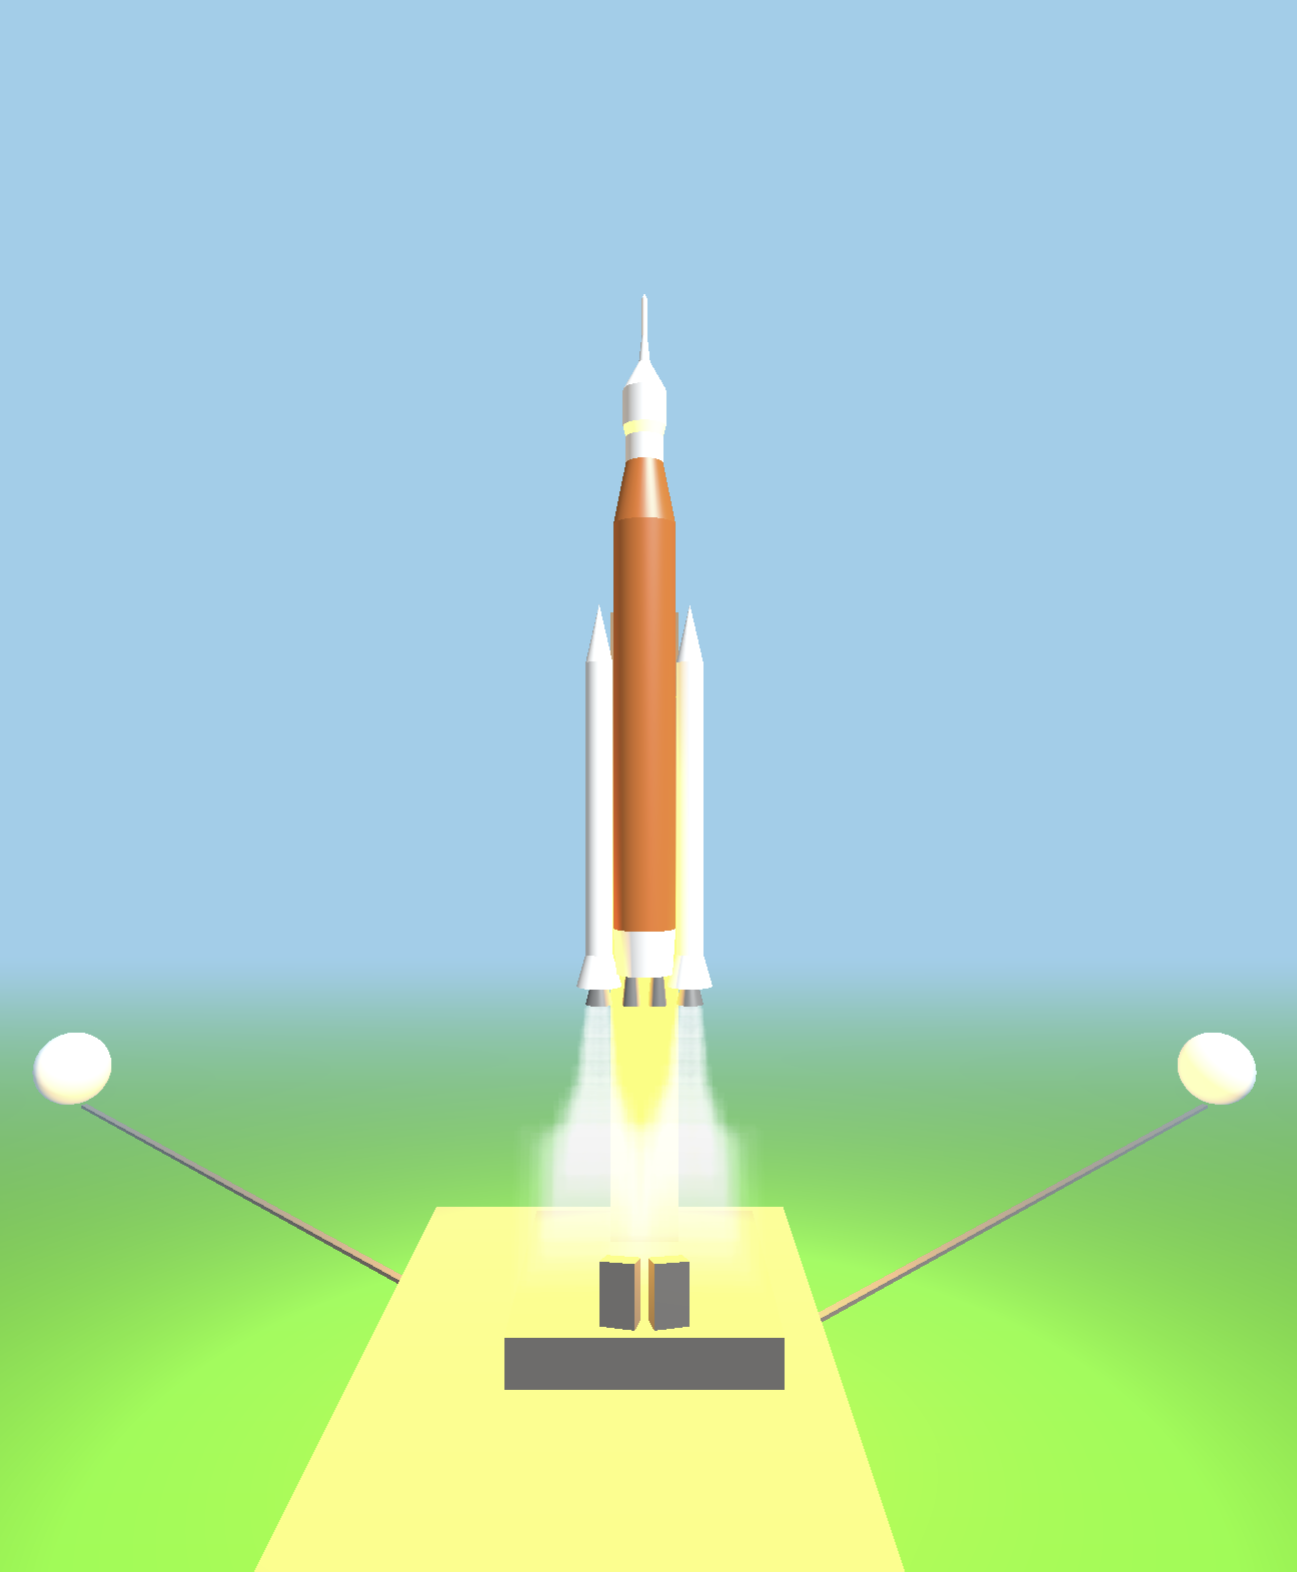
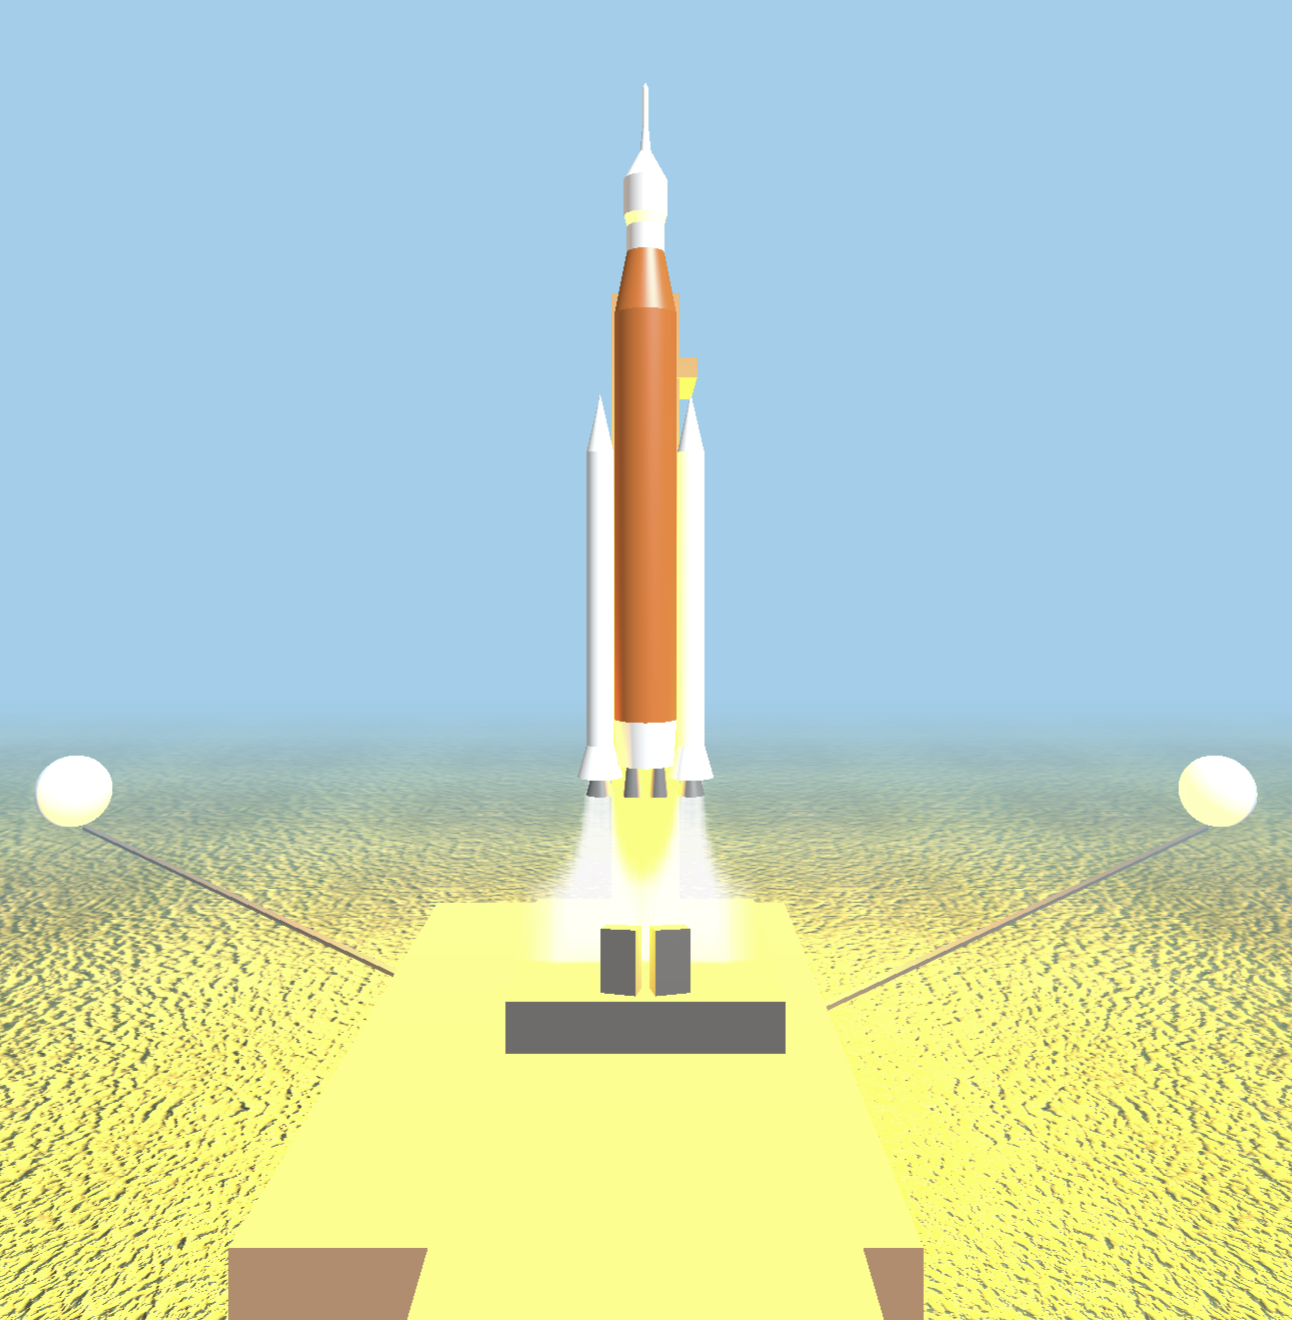
Added flames to core stage and updated images for webpage

diff --git a/creative/main.js b/creative/main.js
@@ -88,6 +88,7 @@ let esmpR = rocketParts.esmpRMesh;
 let icps = rocketParts.icps;
 let upperStage = rocketParts.upperStage;
 let coreStage = rocketParts.coreStage;
+let rs25Engines = rocketParts.rs25Engines;
 let srbL = rocketParts.srbL;
 let srbR = rocketParts.srbR;
 
@@ -173,6 +174,12 @@ const srbRFlame = new THREE.PointLight(0xFFA500, 1000, 0, 1);
 // icps point light
 const icpsFlame = new THREE.PointLight(0xFFA500, 1000, 0, 1);
 
+// core stage point lights
+const core0Flame = new THREE.PointLight(0xFFA500, 1000, 0, 1);
+const core1Flame = new THREE.PointLight(0xFFA500, 1000, 0, 1);
+const core2Flame = new THREE.PointLight(0xFFA500, 1000, 0, 1);
+const core3Flame = new THREE.PointLight(0xFFA500, 1000, 0, 1);
+
 scene.fog = new THREE.Fog(0x87CEEB, 50,400);
 
 // loading in the texture for the sky
@@ -225,16 +232,37 @@ function animate() {
 
             const lNozzel = srbL.getObjectByName("left_nozzel");
             const rNozzel = srbR.getObjectByName("right_nozzel");
+            const engine0 = rs25Engines.getObjectByName("engine0");
+            const engine1 = rs25Engines.getObjectByName("engine1");
+            const engine2 = rs25Engines.getObjectByName("engine2");
+            const engine3 = rs25Engines.getObjectByName("engine3");
+
 
             const lNozzelPos = new THREE.Vector3();
             const rNozzelPos = new THREE.Vector3();
+            const engine0Pos = new THREE.Vector3();
+            const engine1Pos = new THREE.Vector3();
+            const engine2Pos = new THREE.Vector3();
+            const engine3Pos = new THREE.Vector3();
             lNozzel.getWorldPosition(lNozzelPos);
             rNozzel.getWorldPosition(rNozzelPos);
+            engine0.getWorldPosition(engine0Pos);
+            engine1.getWorldPosition(engine1Pos);
+            engine2.getWorldPosition(engine2Pos);
+            engine3.getWorldPosition(engine3Pos);
 
             srbLFlame.position.copy(lNozzelPos);
             srbRFlame.position.copy(rNozzelPos);
+            core0Flame.position.copy(engine0Pos);
+            core1Flame.position.copy(engine1Pos);
+            core2Flame.position.copy(engine2Pos);
+            core3Flame.position.copy(engine3Pos);
             srbLFlame.position.y = lNozzelPos.y-10;
             srbRFlame.position.y = rNozzelPos.y-10;
+            core0Flame.position.y = engine0Pos.y-10;
+            core1Flame.position.y = engine1Pos.y-10;
+            core2Flame.position.y = engine2Pos.y-10;
+            core3Flame.position.y = engine3Pos.y-10;
 
             launchMount.armPivot.rotation.y = Math.PI;
             for (let i = 0; i < 4; i++) {
@@ -244,12 +272,17 @@ function animate() {
             sls.position.y += params.velocity;
             scene.add(srbLFlame);
             scene.add(srbRFlame);
+            scene.add(core0Flame);
+            scene.add(core1Flame);
+            scene.add(core2Flame);
+            scene.add(core3Flame);
+
             // move the camera along with the rocket at same velocity increase
             camera.position.y += params.velocity/params.cameraSpeed;
 
             // Wont rotate until the rocket is high enough
             // Change the 20 to a higher value eventually!!
-            if(sls.position.y >= 20 && rocketPivot.rotation.y <= Math.PI/2){
+            if(sls.position.y >= 40 && rocketPivot.rotation.y <= Math.PI/2){
                 params.rollSpeed += 0.0001;
                 rocketPivot.rotation.y += params.rollSpeed;
                 params.cameraSpeed = 1;
@@ -333,8 +366,13 @@ function animate() {
             // Add Second stage seperation
             if(sls.position.y >= 2700 && !params.coreSep){ // 27000 should be 80 sec into ascent (real 8m)
                 params.coreSep = true;
+                console.log("Core Sep!");
 
                 scene.attach(coreStage);
+                scene.remove(core0Flame);
+                scene.remove(core1Flame);
+                scene.remove(core2Flame);
+                scene.remove(core3Flame);
             }
 
             if (params.coreSep){
@@ -352,8 +390,10 @@ function animate() {
 
             if (sls.position.y >= 3700 && !params.esmSep){
                 params.esmSep = true;
+                console.log("ICPS Sep!");
 
                 scene.attach(icps);
+                scene.remove(icpsFlame);
             }
         }
     } else { // Resets the scene
@@ -393,11 +433,16 @@ function animate() {
         sls.add(coreStage);
         coreStage.position.set(0,0,0);
         coreStage.rotation.set(0,0,0);
+        scene.remove(core0Flame);
+        scene.remove(core1Flame);
+        scene.remove(core2Flame);
+        scene.remove(core3Flame);
 
         params.esmSep = false;
         upperStage.add(icps);
         icps.position.set(0,0,0);
         icps.rotation.set(0,0,0);
+        scene.remove(icpsFlame);
 
         params.velocity = 0;
         params.rollSpeed = 0;

diff --git a/creative/rocket.js b/creative/rocket.js
@@ -187,6 +187,11 @@ function makeRocket (coreColor, engSecColor, engColor, oldRocket = NULL, scene){
     engineMesh2.position.set(-1.6,-23,0);
     engineMesh3.position.set(0,-23,-1.6);
 
+    engineMesh0.name = "engine0";
+    engineMesh1.name = "engine1";
+    engineMesh2.name = "engine2";
+    engineMesh3.name = "engine3";
+
 
     rs25Engines.add(engineMesh0);
     rs25Engines.add(engineMesh1);
@@ -254,6 +259,7 @@ function makeRocket (coreColor, engSecColor, engColor, oldRocket = NULL, scene){
         icps,
         upperStage,
         coreStage,
+        rs25Engines,
         srbL,
         srbR,
         srb
